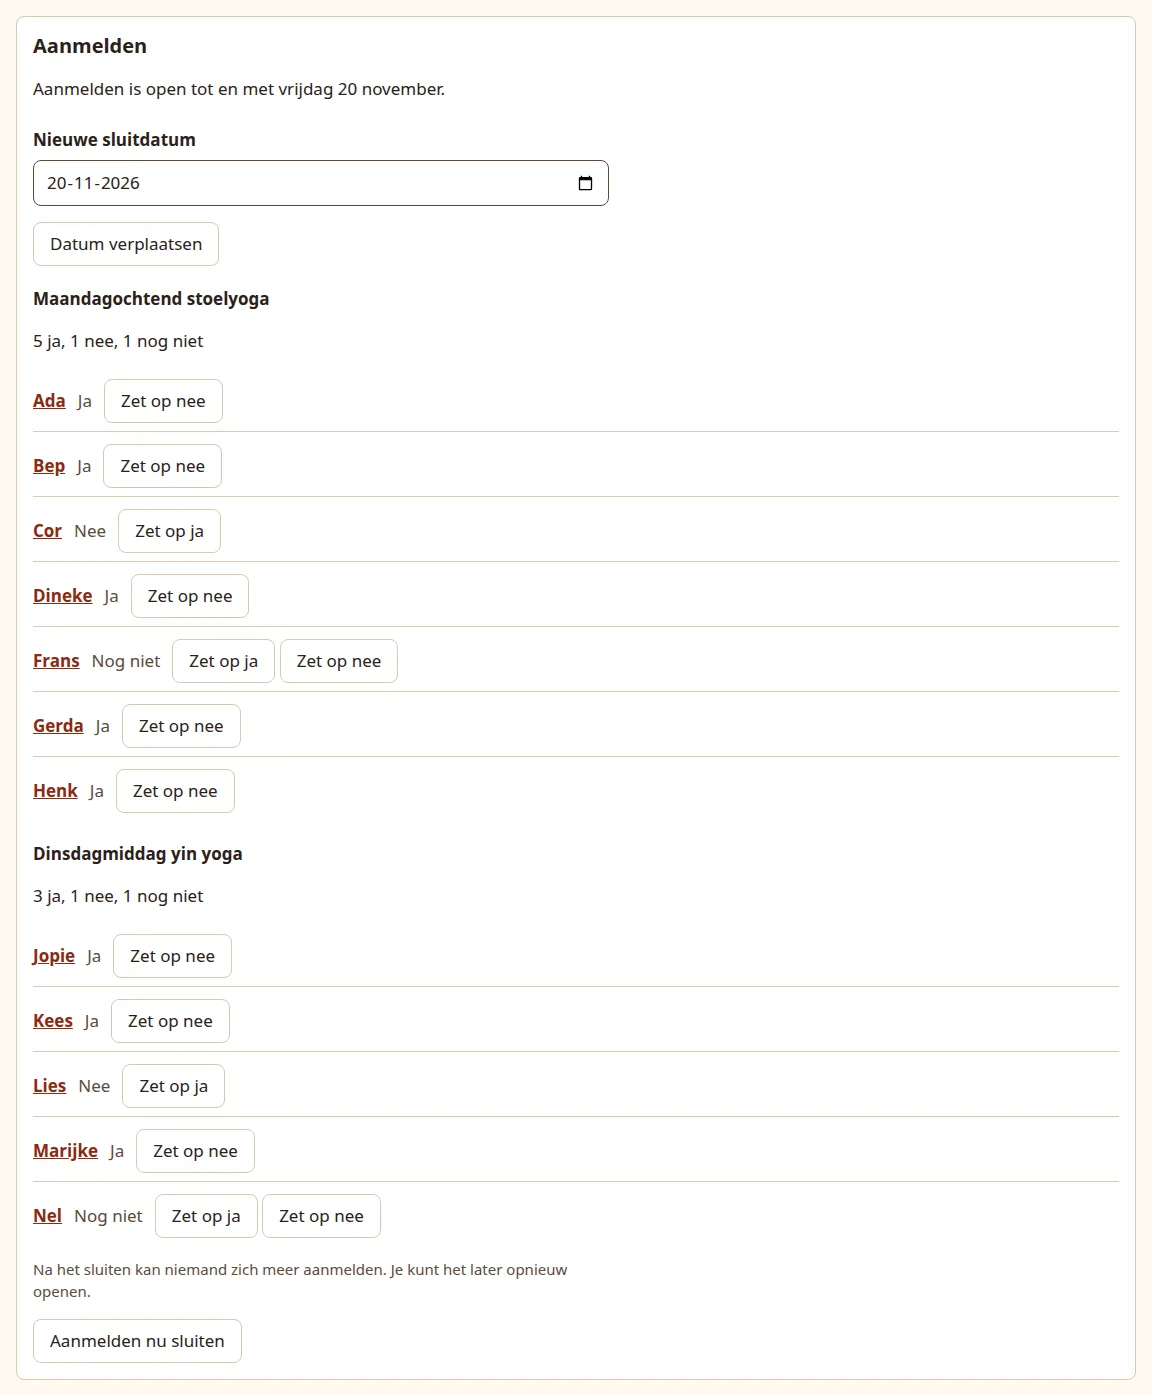
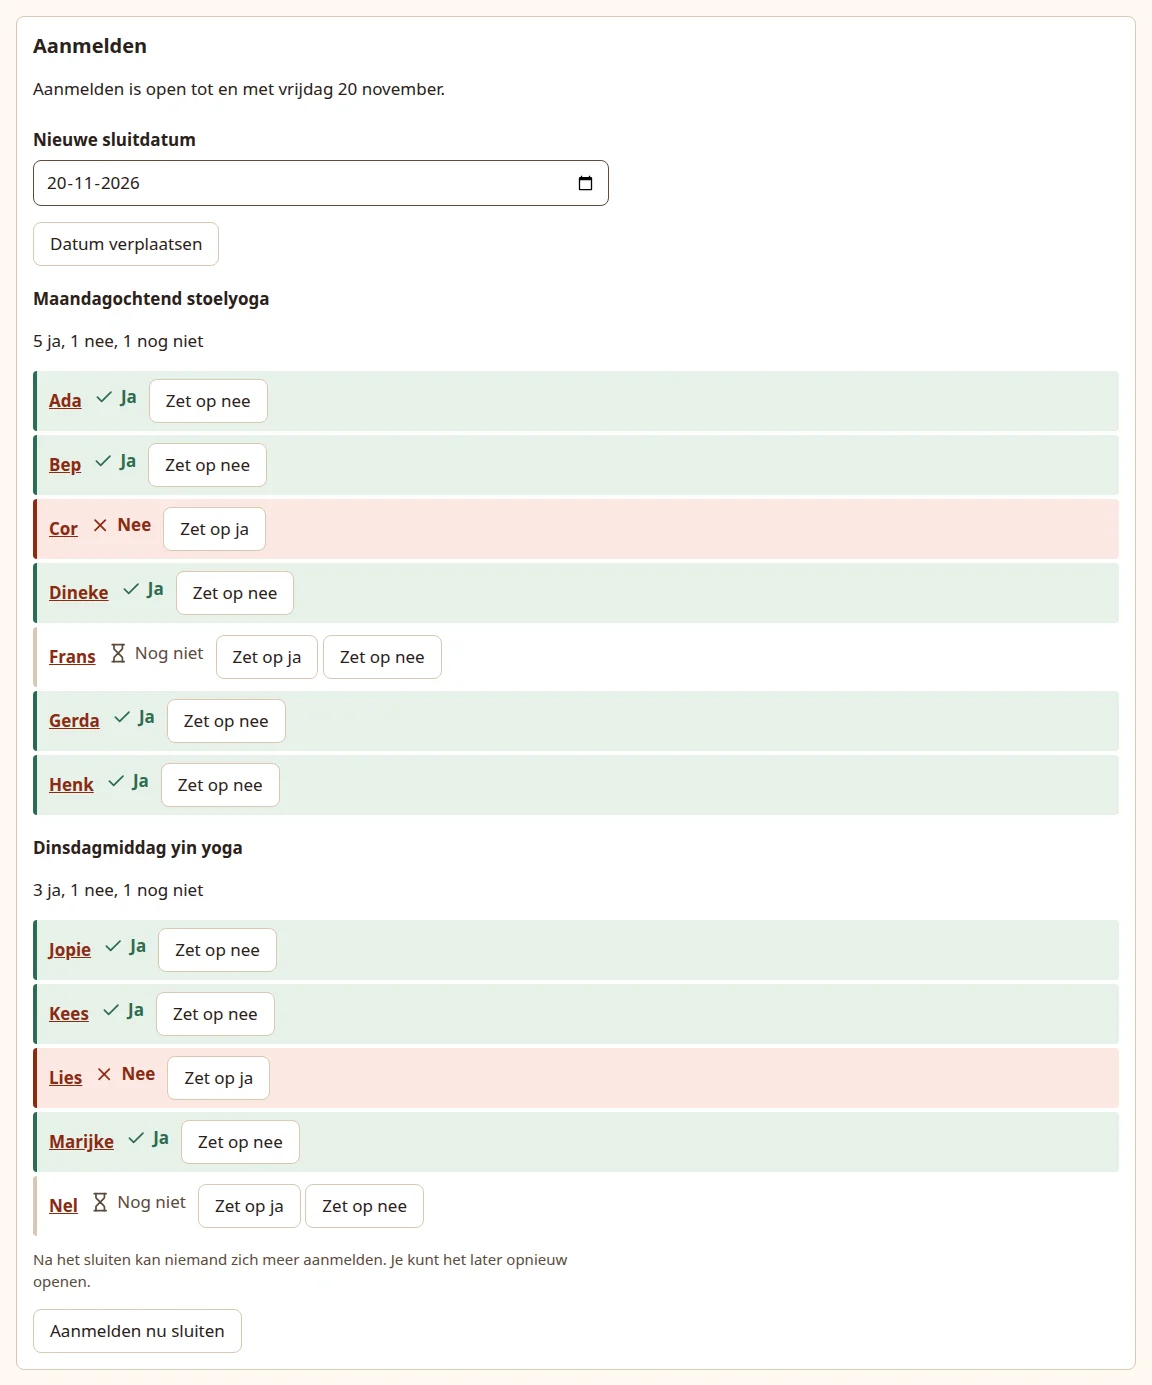
feat: colour each sign-up answer line on the event page
Each person's line in the sign-up panel takes the colour of the answer:
green with a check for yes, red with a cross for no, plain with an
hourglass for not yet. After closing, no answer looks like a no, since
those people drop out. The bar and the words carry the answer too, so
the list does not depend on telling the tints apart.

The sign-up guide describes the colours, and its screenshot of the open
panel is retaken with the same example data.

diff --git a/test/admin-signup.test.js b/test/admin-signup.test.js
@@ -448,6 +448,24 @@ test('the sign-up panel lists each group with its answers and a button to change
   assert.ok(closed.body.includes(`href="/admin/events/${eventId}/signup/finish"`));
 });
 
+test('each answer line in the sign-up panel is coloured by its answer, and no answer turns to no on closing', async () => {
+  const t = await setup();
+  const { eventId, groupIds: [a] } = await eventWithGroups(t, [3]);
+  await turnOn(t, eventId);
+  await send(t, eventId);
+  const [ada, ben, cor] = people(t, a);
+  await answerAs(t, ada, 'yes');
+  await answerAs(t, ben, 'no');
+  // The class of the line that links to this person.
+  const tone = (body, p) => new RegExp(`<li class="answer-([a-z]+)">\\s*<a href="/admin/participants/${p.id}"`).exec(body)?.[1];
+  const open = (await t.adminGet(`/admin/events/${eventId}`)).body;
+  assert.deepEqual([ada, ben, cor].map((p) => tone(open, p)), ['yes', 'no', 'open']);
+  await t.adminPost(`/admin/events/${eventId}/signup/close`);
+  const closed = (await t.adminGet(`/admin/events/${eventId}`)).body;
+  assert.deepEqual([ada, ben, cor].map((p) => tone(closed, p)), ['yes', 'no', 'no']);
+  assert.ok(textOf(closed).includes(tr('nl', 'admin.signup.answer.noneClosed')));
+});
+
 test('the closed sign-up panel uses the singular for one joiner and one non-joiner', async () => {
   const t = await setup();
   const { eventId, groupIds: [a] } = await eventWithGroups(t, [2]);

diff --git a/src/views/admin.js b/src/views/admin.js
@@ -161,6 +161,16 @@ function answerCounts(lang, people, state) {
     : t(lang, 'admin.signup.counts', { yes, no, none: people.length - yes - no });
 }
 
+// The colour of a line in the answer lists, so a group reads at a glance.
+// Once closed, no answer means not taking part, so it looks like a no.
+function answerTone(p, state) {
+  if (p.signup === 'yes') return 'yes';
+  if (p.signup === 'no' || state === 'closed') return 'no';
+  return 'open';
+}
+
+const ANSWER_LINE_KINDS = { yes: 'done', no: 'failed', open: 'waiting' };
+
 function answerLists(lang, groups, state) {
   return groups.map(({ group, people }) => {
     const yes = people.filter(joins).length;
@@ -171,11 +181,14 @@ function answerLists(lang, groups, state) {
     return html`<h3>${group.name}</h3>
 <p>${counts}</p>
 ${warn}
-<ul class="group-list">${people.map((p) => html`<li>
+<ul class="group-list answers">${people.map((p) => {
+      const tone = answerTone(p, state);
+      return html`<li class="answer-${tone}">
 <a href="/admin/participants/${p.id}">${p.name}</a>
-<span class="muted">${answerText(lang, p, state)}</span>
+${status(ANSWER_LINE_KINDS[tone], answerText(lang, p, state), tone === 'open' ? 'muted' : 'answer')}
 ${setAnswerForm(lang, p, 'event')}
-</li>`)}</ul>`;
+</li>`;
+    })}</ul>`;
   });
 }
 

diff --git a/public/css/admin.css b/public/css/admin.css
@@ -373,6 +373,39 @@ button.danger {
   font-weight: 700;
 }
 
+/* Sign-up answers: each line takes the colour of its answer, so a whole
+   group can be read at a glance. The bar and the words carry it too, for
+   whoever cannot tell the tints apart. */
+.answers li {
+  margin-bottom: 0.25rem;
+  padding: 0.5rem 0.75rem;
+  border-bottom: 0;
+  border-left: 4px solid var(--line);
+  border-radius: 0.25rem;
+}
+
+.answers li.answer-yes {
+  border-left-color: var(--ribbon);
+  background: var(--yes-bg);
+}
+
+.answers li.answer-no {
+  border-left-color: var(--accent-dark);
+  background: var(--no-bg);
+}
+
+.answers .answer {
+  font-weight: 700;
+}
+
+.answer-yes .answer {
+  color: var(--ribbon);
+}
+
+.answer-no .answer {
+  color: var(--accent-dark);
+}
+
 .badge {
   padding: 0.05rem 0.5rem;
   border: 1px solid var(--line);

diff --git a/public/css/base.css b/public/css/base.css
@@ -11,6 +11,8 @@
   --focus: #1d4ed8;
   --warn: #b7791f;
   --warn-bg: #fff4dc;
+  --yes-bg: #e6f2ea;
+  --no-bg: #fbe8e2;
   --font: system-ui, -apple-system, "Segoe UI", Roboto, "Helvetica Neue", Arial, sans-serif;
 }
 

diff --git a/docs/guide/signup.md b/docs/guide/signup.md
@@ -66,9 +66,9 @@ The buttons in the mail open the person's own page, which says **Almost done: ta
 
 After answering, the page says **You are taking part.** (*Je doet mee.*) or **You are not taking part this time.** (*Je doet deze keer niet mee.*) and what comes next. There is no answer button on that page, so an accidental second tap cannot change the answer: to change it they press **Change your answer** (*Antwoord veranderen*) first, and then choose again. They can change their answer as often as they like until the end of the closing date. [What participants see](../participants.md#signing-up) shows the pages.
 
-The panel on the event page shows per group how many said yes, no and not yet, and each person's answer. A group with 1 or 2 yes answers shows **At least 3 participants are needed for drawing.** (*Er zijn minstens 3 deelnemers nodig om te kunnen trekken.*)
+The panel on the event page shows per group how many said yes, no and not yet, and each person's answer. Each person's line is coloured by their answer, so a group reads at a glance: green with a check mark for yes, red with a cross for no, and plain with an hourglass for not yet. After closing, someone who did not answer turns red too, because they are not taking part. A group with 1 or 2 yes answers shows **At least 3 participants are needed for drawing.** (*Er zijn minstens 3 deelnemers nodig om te kunnen trekken.*)
 
-![The open sign-up: counts and answers per group, with buttons to set an answer](../images/organiser-signup-open.webp){ .shot }
+![The open sign-up: counts and answers per group, each line coloured by its answer, with buttons to set an answer](../images/organiser-signup-open.webp){ .shot }
 
 ### The class dashboard during sign-up
 
